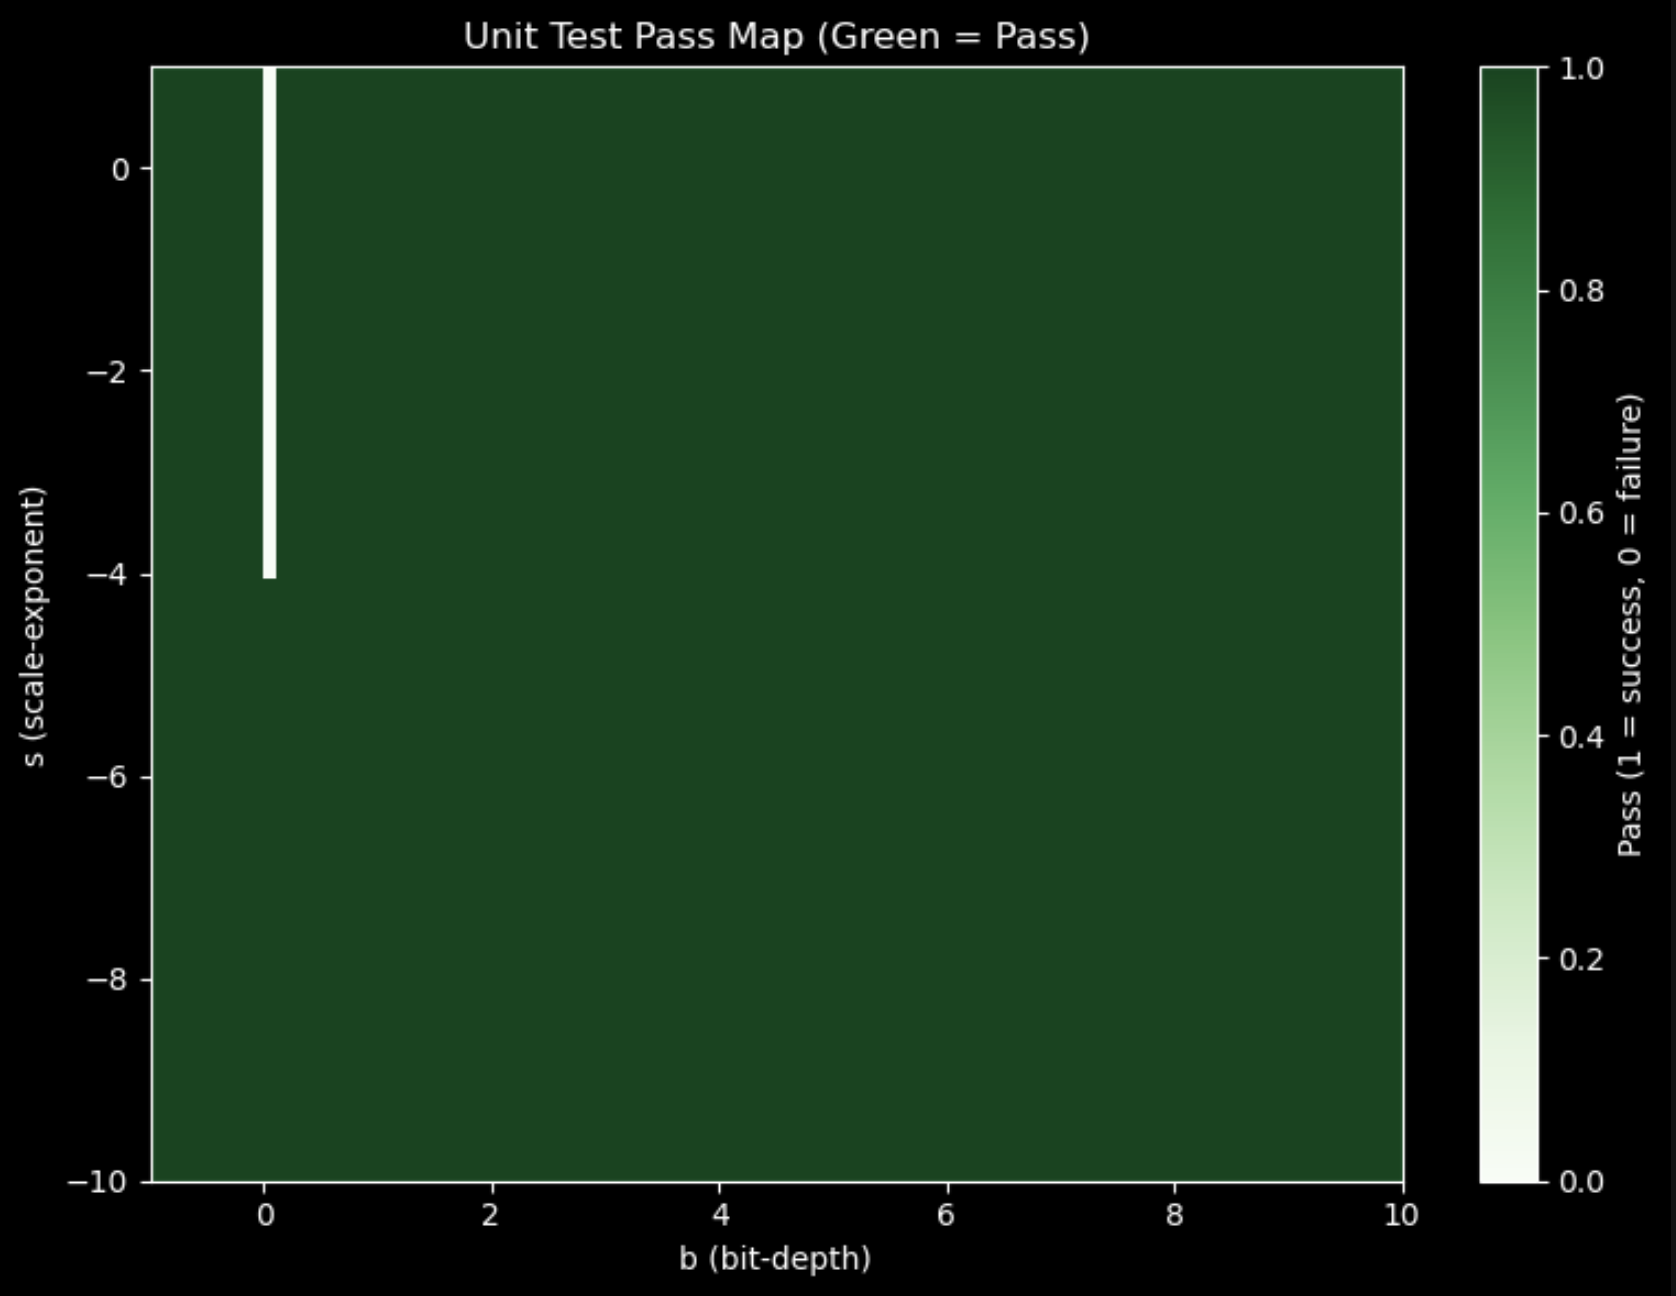
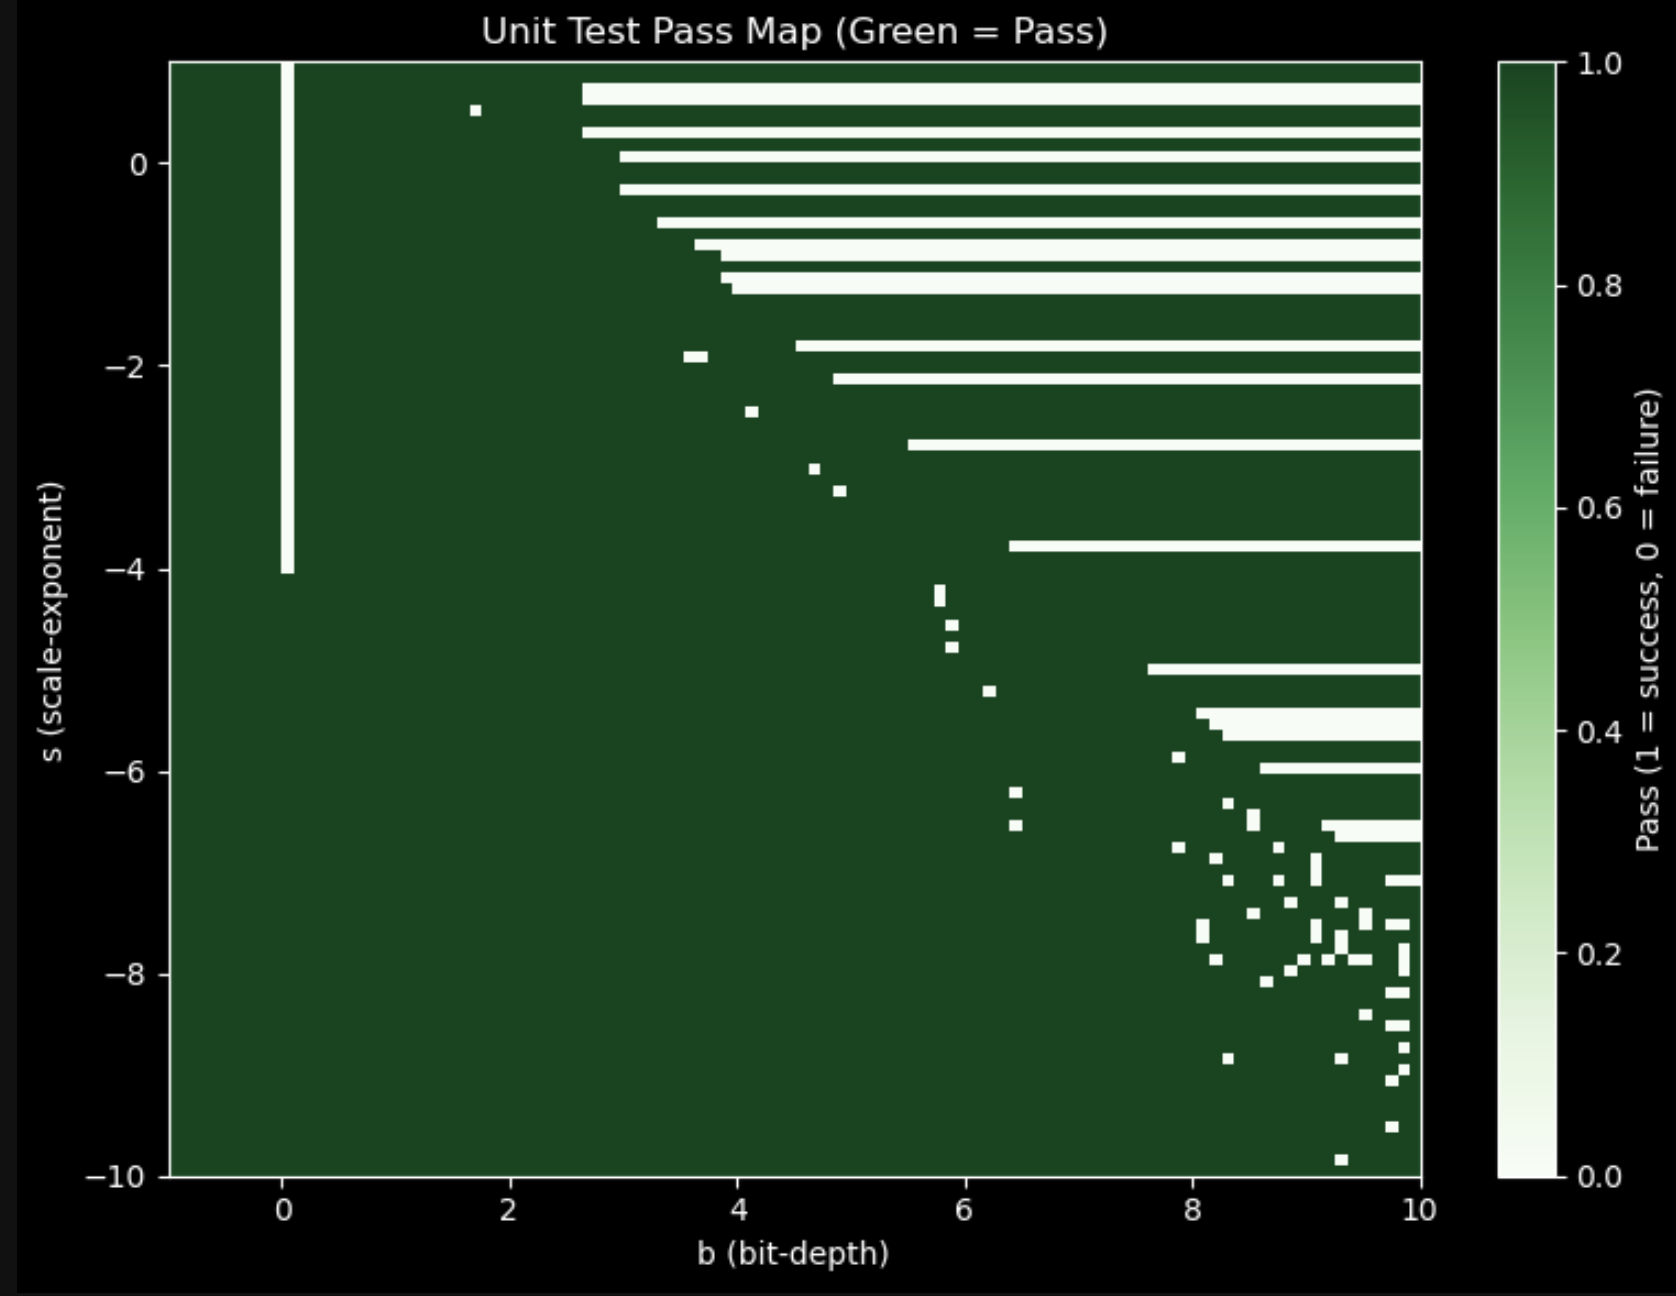
improved bwd pass code

diff --git a/scratchpad/presentation/mid-term/slides.html b/scratchpad/presentation/mid-term/slides.html
@@ -12,34 +12,35 @@
 	<!-- <link href="https://fonts.googleapis.com/css?family=Major+Mono+Display:400,700,400italic&display=swap" rel="stylesheet"> -->
 	<style>
 		:root {
-			--bg-color: #ffffff;
+			--bg-color: #57a773;
 			--text-color: #000000;
 
-			--rc1-color: #dddddd;
+			--rc-color:  #f1f4f7
+			--rc0-color: #eceff4;
+			--rc1-color: #dbdee9;
 			--rc2-color: #81a1c1;
-			--rc3-color: #ebcb8b;
+			--rc3-color: #d08770;
 			--rc4-color: #88c0d0;
+			--rc5-color: #a3be8c;
+			--rc6-color: #8fbcbb;
+			--rc7-color: #b48ead;
+			--rc8-color: #57a773;
+			--rc9-color: #8d94ba
 
-			--code-bg-color: #dddddd;
-			--code-text-color: #000000;
+
+			--code-bg-color: #000000;
+			--code-text-color: #fff;
 		}
 
 		body {
 			font-family: 'Victor Mono', monospace;
 			margin: 0;
 			background-color: var(--bg-color);
-			color: var(--text-color);
 		}
 
-
-		h1, h2, h3 {
-			font-weight: normal;
-			color: var(--text-color);
-		}
 
 		.remark-slide-content {
 			background-color: var(--bg-color);
-			color: var(--text-color);
 			padding: 0 !important; /* Remove default padding */
 			margin: 0;
 		}
@@ -55,9 +56,9 @@
 		/* Horizontal divider container */
 		.divider {
 			width: 100%;
-			height: 2px;
+			height: 8px;
 			background-color: black;
-			margin: 1em 0;
+			margin: 0.2em 0;
 		}
 
 		/* Colored text containers */
@@ -80,6 +81,7 @@
 
 	.lc {
 		display: flex;
+		background-color: var(--bg-color);
 		flex-direction: column;
 		padding: 0.5em;
 		width: 50%;
@@ -150,13 +152,13 @@
 		background-color: black;
 		padding: 0.5em;
 		display: flex;
-		align-items: left;
-		justify-content: center;
-		padding:0em;
+		flex-direction: column;
 		width: 50%;
 		box-sizing: border-box;
 		align-items: left;
+		color: white;
 	}
+
 
 	.remark-code, .remark-inline-code {
 		background-color: var(--code-bg-color);
@@ -201,9 +203,9 @@ class: split-slide
 .rtext[# Problem we are trying to solve]
 ]
 
-.rc3[
+.rcb[
 ### Process High/Medium Resolution Images for classification or segmentation such that:
-1. Use less number of parameters (less flops) so that they can fit on smaller devices.
+1. Uses less number of parameters (less flops) so that they can fit on smaller devices.
 2. Achieve "Good" Accuracy/Fidelity.
 3. (Optional) Achieve Smooth Saliency
 4. High Throughput in Edge Devices (we dont have any so... Ampere) and Big Devices (Hopper).
@@ -251,7 +253,7 @@ def quantize_weight(x,b=2,e=-8):
 ]
 
 .rcb[
-	<video width="600",height:"1800", controls>
+	<video height="660" width="590" controls>
 		<source src="./QuantizationAnimation.mp4" type="video/mp4">
 	</video>
 ]
@@ -268,7 +270,7 @@ class: split-slide
 - With STE estimator we can now perform quantization aware training.
 ]
 
-.rc1[
+.rcb[
 ```py
 class STERound(torch.autograd.Function):
 		"""
@@ -306,8 +308,8 @@ class: split-slide
  - The tensors are pruned for next iteration.
 ]
 
-.rc1-black[
-	<video width="600",height:"1800", controls>
+.rcb[
+	<video height="660" width="590" controls>
 		<source src="./tosparse.mp4" type="video/mp4">
 	</video>
 ]
@@ -323,7 +325,7 @@ class:split-slide
 
 ]
 
-.rc1[
+.rcb[
 ```py
 with torch.autocast(device_type="cuda",dtype=self.amp_dtype):
 		out = self.model(batch_img)
@@ -378,7 +380,7 @@ size_layer = prods* torch.where(self.b>0,1,0)
 - Bad training batches can result in "irreversible" forgetting
 ]
 
-.rc1[
+.rcb[
 ```py
 class Qconv(torch.nn.Module):
 		"""
@@ -388,8 +390,8 @@ class Qconv(torch.nn.Module):
 		def  __init__ (self,...):
 				...
 				# 1 for each kernel (out_channel).. 
-				-> self.exp_bit = torch.ones(out_channels,1,1,1)*e
-				-> self.depth_bit = torch.ones(out_channels,1,1,1)*b
+				self.exp_bit = torch.ones(out_channels,1,1,1)*e
+				self.depth_bit = torch.ones(out_channels,1,1,1)*b
 				...
 
 		def size_layer(self):
@@ -424,7 +426,7 @@ class: split-slide
 
 ]
 
-.rc1[
+.rcb[
 ```py
 class QPureconvModel(torch.nn.Module):
 		def __init__(self):
@@ -466,7 +468,7 @@ class:split-slide
 - similar to convolution the size layer is proportional to the true size (but not accurate, they cancel out when i divide with total parameters at init).
 ]
 
-.rc1[
+.rcb[
 ```py
 class QlinearMLP(torch.nn.Module):
 		"""
@@ -508,7 +510,7 @@ class: split-slide
 ]
 
 
-.rc1[
+.rcb[
 ```py
 class QconvModel(torch.nn.Module):
 		def __init__(self):
@@ -557,7 +559,7 @@ class:split-slide
 - Question: How do i calculate actual bit depth of a quantized fp32 (not ours which supports fractional bit depth)?
 ]
 
-.rc4[
+.rc1[
 #Throughput
 <div style="text-align: center;">
 	<img src="./improve_trainingtime.png" width="400" height="400">
@@ -601,7 +603,7 @@ class: split-slide
 	- 4 implementations (2 big ones).
 ]
 
-.rc1[
+.rcb[
 ```py
 def run_flash_attention_fwd(self,..):
 		...
@@ -639,53 +641,44 @@ class: split-slide
 - [my bwd pass implementation](https://github.com/adishourya/SelfcompressingDepthWiseAttn/blob/master/scratchpad/quant/backward_unit_quant.py)
 ]
 
-.rc1[
-```py
-s = torch.tensor(s)
-b = torch.tensor(b)
-s.requires_grad_()
-b.requires_grad_()
-
-x = torch.linspace(-3,3,100)
-x.requires_grad_()
-
-x_scaled = x/ torch.exp2(s)
-x_scaled.retain_grad()
-
-
-half = torch.exp2(b-1)
-half.retain_grad()
-
-x_round = steRound(x_scaled)
-x_round.retain_grad()
-
-y = torch.clip(x_round,-1*half,half-1)
-y.retain_grad()
-
-z = torch.exp2(s) * y
-z.retain_grad()
-loss = z.sum()
-loss.backward()
-```
+.rcb[
+<img src="unit_tests.png" height="500" width="500">
+- incorrect but unlikely to get high bit depth with low exp bit
+- scarier failure when bit depth is 0
 ]
 
 ---
 class: split-slide
 .lc[
 # Writing Bwd Pass
-- <img src="unit_tests.png" height="500" width="500">
+```py
+y = {
+half-1, x > half-1
+-half, x < -half
+0, elsewhere
+}
+```
+```py
+dy/dhalf = {
+1, x > half -1
+-1, x< -half
+0, elsewhere
+}
+```
+- This works great for normal cases but for cases but there are special cases.
+- `-half> half -1` for 0<b<1 and clipped at a single point b=0 [torch_implementation of bwd pass for clip](https://github.com/pytorch/pytorch/blob/53fe804322640653d2dddaed394838b868ce9a26/torch/autograd/_functions/pointwise.py#L95)
+- [some say torch's clamp bwd is also not stable]( https://github.com/pytorch/pytorch/issues/7002#issuecomment-384735476 )
+
 ]
 
-.rc1[
+.rcb[
 ```py
 def inspect_clip():
 		x = torch.linspace(-1,1,50)
 		x.requires_grad_()
-
 		# happens at b=0. as exp2(b-1) = 1/2
 		half = torch.tensor(0.5)
 		half.requires_grad_()
-	
 		# that is -half = half-1 = -0.5
 		y = torch.clip(x,-half,half-1)
 		y.retain_grad()
@@ -694,13 +687,29 @@ def inspect_clip():
 		z.backward()
 		print(y.grad)
 		print(half.grad)
-```
-```
+#------------------
 tensor([-0.5000, ..., -0.5000, -0.5000], grad_fn=<ClampBackward0>)
-tensor([1., 1., ...., 1.])
-tensor(37.) ????
+y.grad -> tensor([1., 1., ...., 1.])
+half.grad -> tensor(37.) ????
+```
+```
+# y = clip(x_round,-half,half-1)
+# for half
+ours_half_lj = torch.where(x_round<-1*half,-1,
+									torch.where(x_round>half-1,1,0))
+# but we can also have case where half is negative. (0<b<1)
+single_half = torch.allclose(-half, half -1 , atol=1e-6)
+ours_half_lj = (single_half)* half+  (-half > half -1)*1 
+		 + (-1*half < half -1)*ours_half_lj
+ours_halfgrad = (y.grad * ours_half_lj).sum()
 ```
 ]
+
+---
+class: center, top
+# Compressing Softmax Attention
+
+
 
 
 
@@ -718,6 +727,8 @@ class:center,middle
 		ratio:"16:9",
 		slideNumberFormat: 'Slide %current% of %total%',
 		highlightLanguage: 'python',
+		highlightStyle:"sunburst",
+		highlightLines: true,
 	}
 	);
 </script>

diff --git a/scratchpad/quant/backward_unit_quant.py b/scratchpad/quant/backward_unit_quant.py
@@ -141,16 +141,11 @@ def _(steRound, torch):
         #-----------
         # y = clip(x_round,-half,half-1)
         # for half
-        ours_half_lj = torch.where(x_round<-1*half,-1,
-                          torch.where(x_round>half-1,1,0))
+        min,max = -half, half -1
+        max_grad_lj = ((x_round > max) | (max < min)) * 1
+        min_grad_lj = ((x_round < min) & (min < max)) * -1
+        ours_halfgrad = torch.sum(y.grad*(max_grad_lj + min_grad_lj))
 
-
-        # but we can also have case where half is negative.
-        # clipping does not work.. the gradient returns the size of the input.
-        single_half = torch.allclose(-half, half -1 , atol=1e-6)
-
-        ours_half_lj = (single_half)* half+  (-half > half -1)*1 + (-1*half < half -1)*ours_half_lj
-        ours_halfgrad = (y.grad * ours_half_lj).sum()
         assert torch.allclose(half.grad , ours_halfgrad, atol=1e-6) , f"{half.grad=} {ours_halfgrad=}"
 
         # for x_round
@@ -177,11 +172,11 @@ def _(steRound, torch):
         assert torch.equal(our_xgrad, x.grad)
 
         # for s (branch2)
-        ours_s_lj = x_scaled * -1* torch.log(torch.tensor(2.0))
-        ours_sgrad2 = (x_scaled.grad * ours_s_lj).sum()
+        ours_sgrad2 = torch.sum(x_scaled.grad *x_scaled* -1* torch.log(torch.tensor(2.0)))
+        # ours_sgrad2 = torch.sum(ours_sgrad1 )
 
         ours_sgrad = ours_sgrad1+ ours_sgrad2
-        assert torch.allclose(s.grad ,ours_sgrad, atol=1e-6), f"{ours_sgrad=}, {s.grad=} , {ours_sgrad - s.grad}"
+        assert torch.allclose(s.grad ,ours_sgrad, atol=1e-5), f"{ours_sgrad=}, {s.grad=} , {ours_sgrad - s.grad}"
 
 
         #----------
@@ -256,7 +251,7 @@ def _(run_alltests):
 @app.cell
 def _(torch):
     def inspect_clip():
-        x = torch.linspace(-1,1,50)
+        x = torch.linspace(-1,2,50)
         x.requires_grad_()
 
         half = torch.tensor(0.5)
@@ -271,6 +266,33 @@ def _(torch):
         print(half.grad)
     inspect_clip()
     return (inspect_clip,)
+
+
+@app.cell
+def _(torch):
+    def inspect_minmax():
+        x = torch.linspace(-1,2,50)
+        x.requires_grad_()
+        half = torch.tensor(0.5)
+        half.requires_grad_()
+        min = -half
+        max = half - 1
+        y = torch.clip(x, min, max)
+        y.retain_grad()
+        z = y.sum()
+    
+        z.backward()
+        print(y)
+        print(y.grad)
+        print(half.grad)
+        print(x.grad)
+    
+        max_grad_lj = ((x > max) | (max < min)) * 1
+        min_grad_lj = ((x < min) & (min < max)) * -1
+        half_grad = torch.sum(y.grad*(max_grad_lj + min_grad_lj))
+        print(half_grad)
+    inspect_minmax()
+    return (inspect_minmax,)
 
 
 @app.cell
